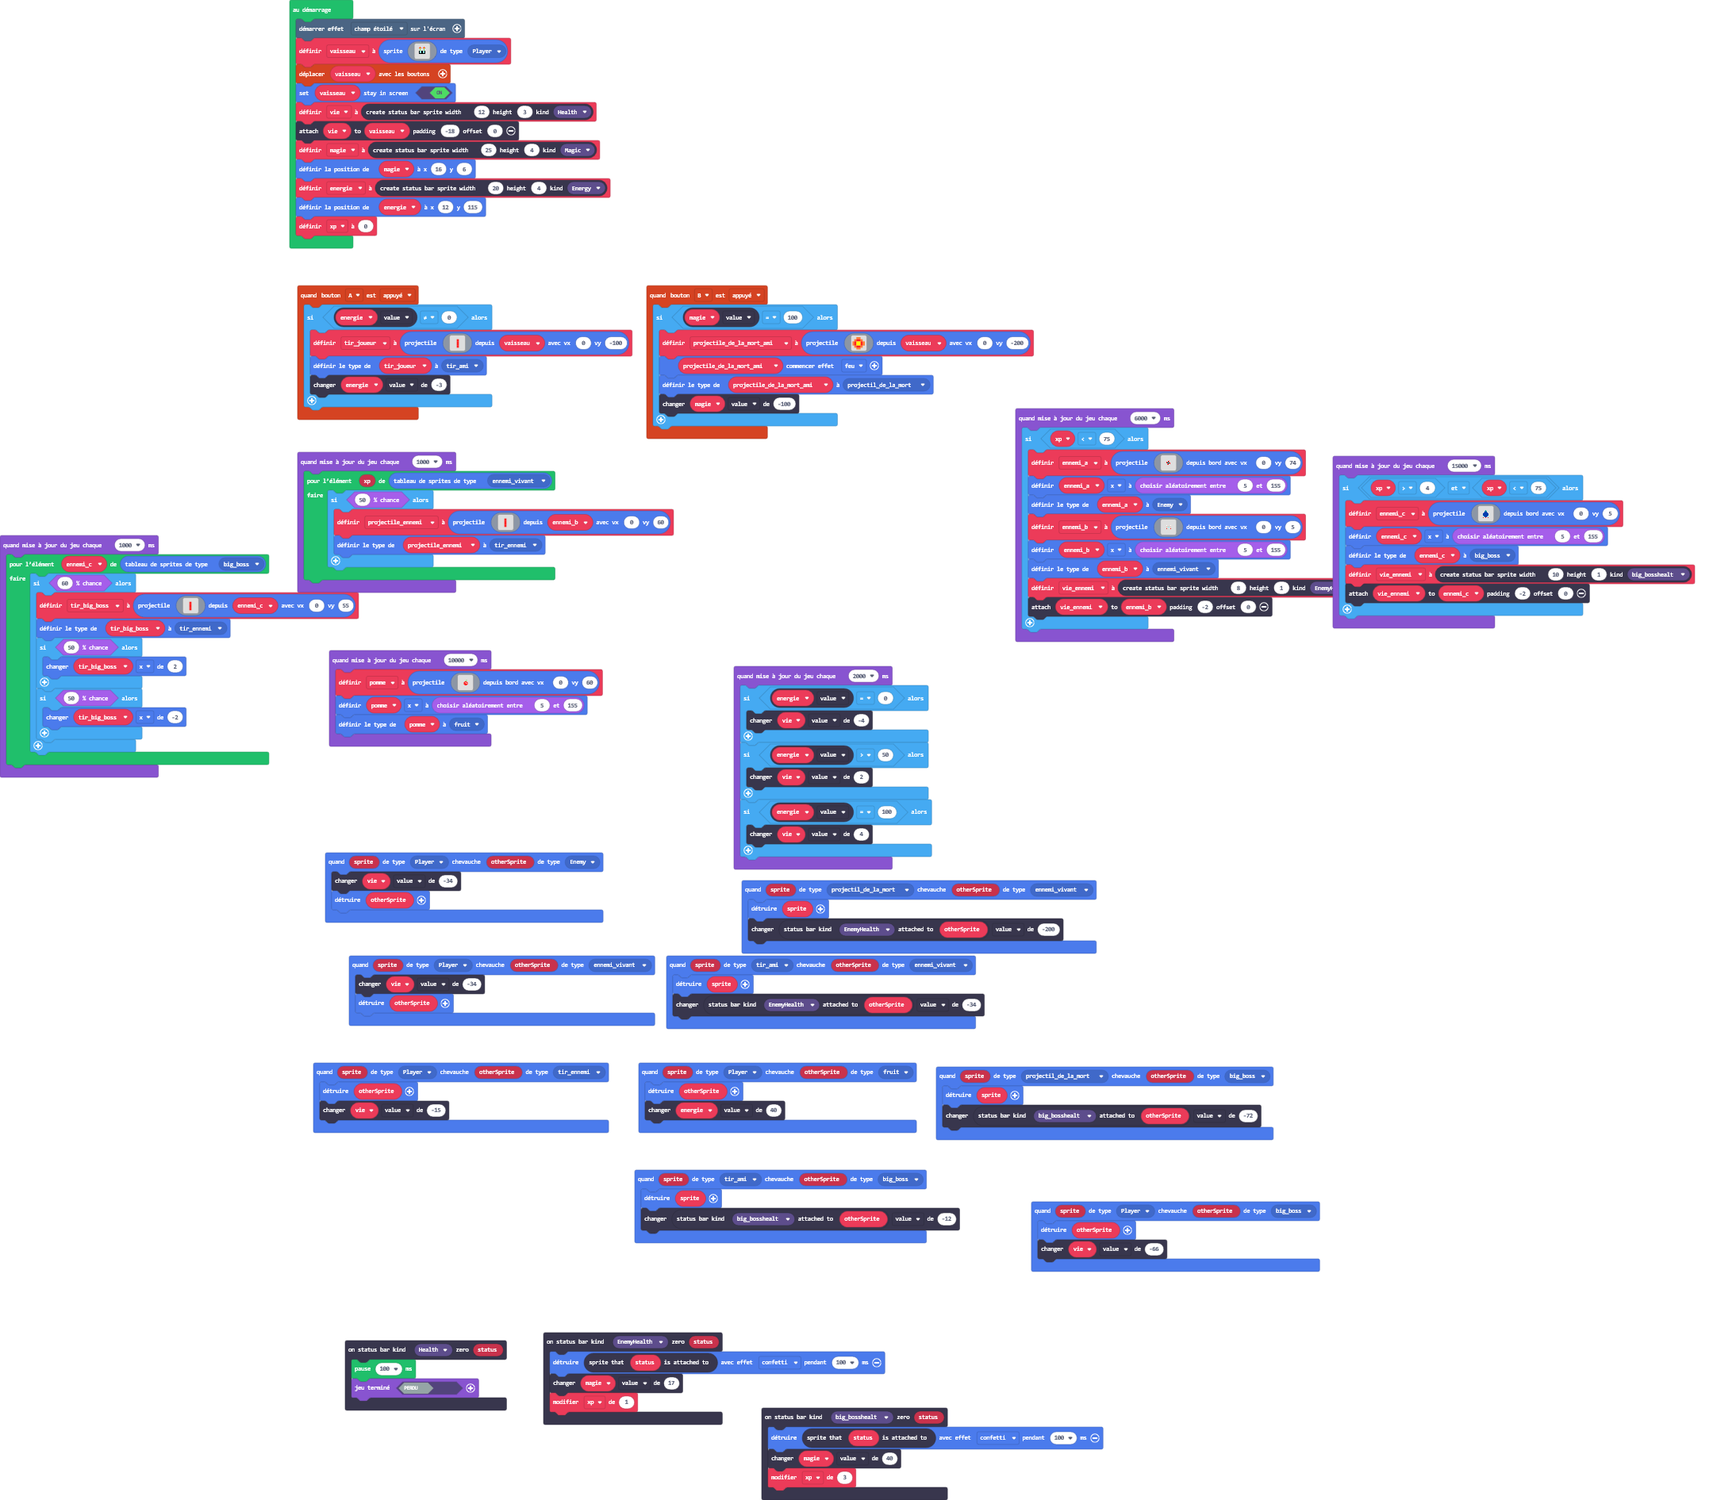
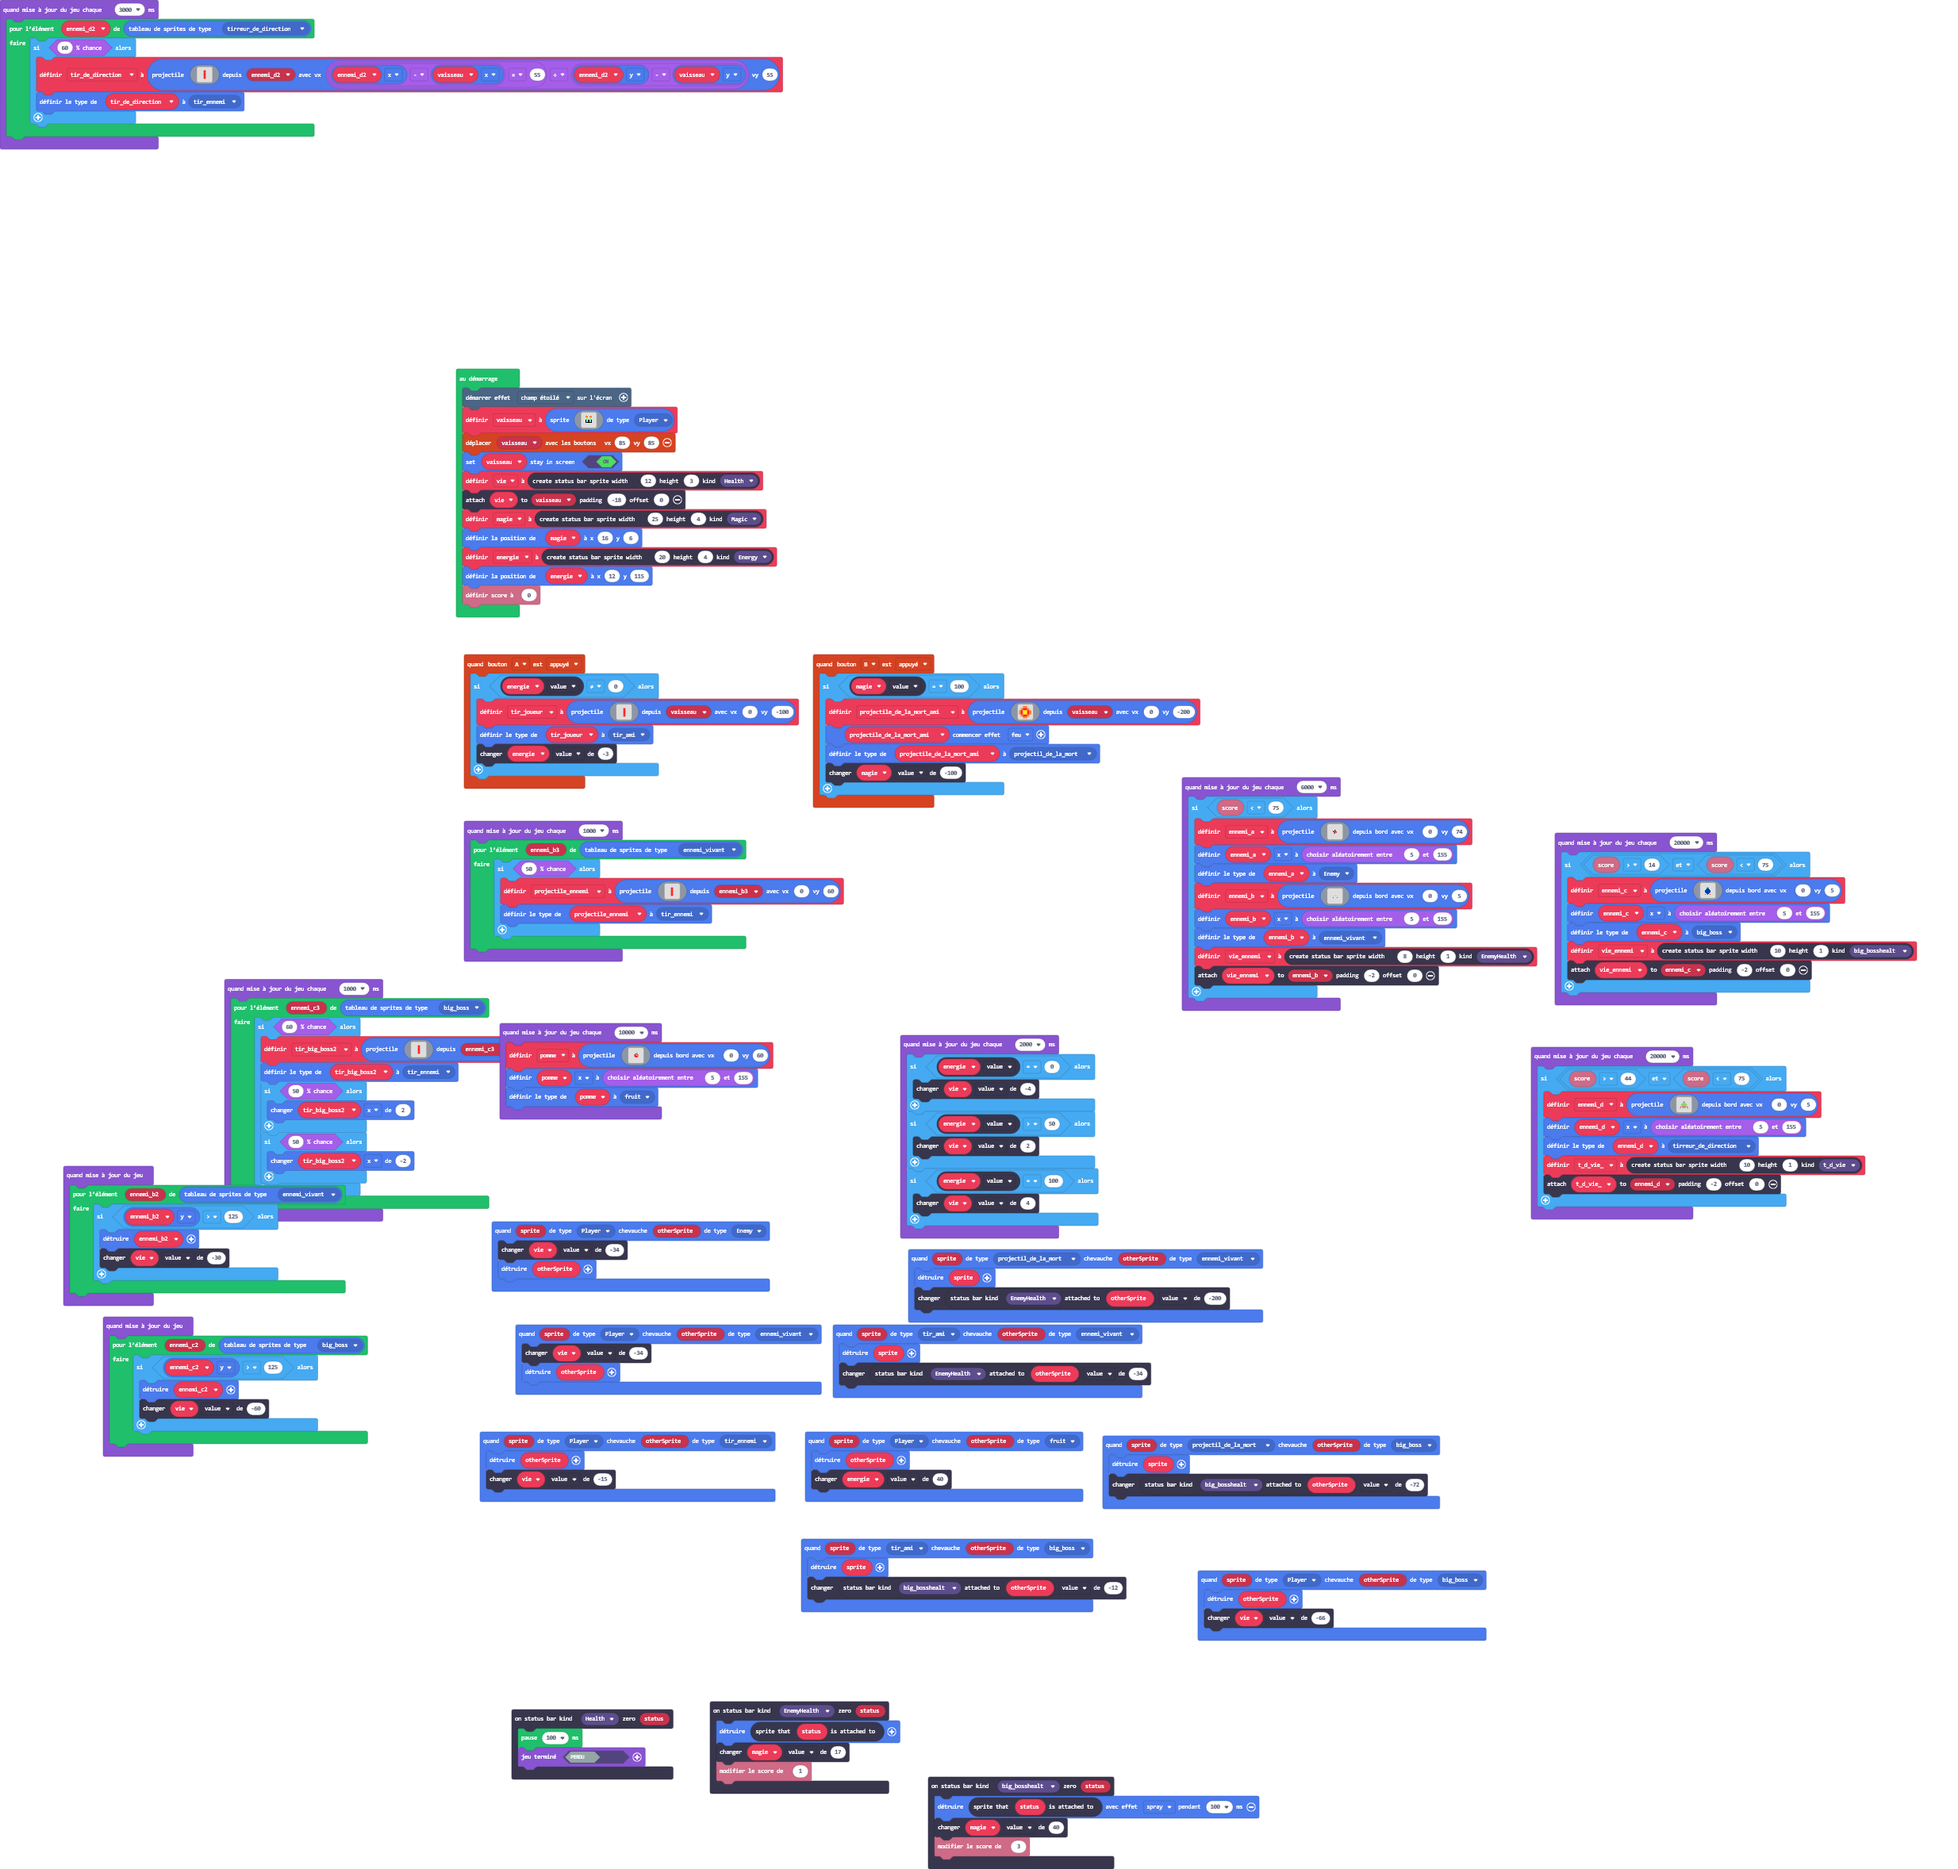
Mise à jour main.blocks, main.ts, images.g.jres, images.g.ts

diff --git a/main.ts b/main.ts
@@ -6,14 +6,16 @@ namespace SpriteKind {
     export const fruit = SpriteKind.create()
     export const big_boss = SpriteKind.create()
     export const tir_big_boss = SpriteKind.create()
+    export const tirreur_de_direction = SpriteKind.create()
 }
 namespace StatusBarKind {
     export const big_bosshealt = StatusBarKind.create()
+    export const t_d_vie = StatusBarKind.create()
 }
 statusbars.onZero(StatusBarKind.big_bosshealt, function (status) {
-    status.spriteAttachedTo().destroy(effects.confetti, 100)
+    status.spriteAttachedTo().destroy(effects.spray, 100)
     magie.value += 40
-    xp += 3
+    info.changeScoreBy(3)
 })
 sprites.onOverlap(SpriteKind.tir_ami, SpriteKind.ennemi_vivant, function (sprite, otherSprite) {
     sprite.destroy()
@@ -50,9 +52,9 @@ controller.A.onEvent(ControllerButtonEvent.Pressed, function () {
     }
 })
 statusbars.onZero(StatusBarKind.EnemyHealth, function (status) {
-    status.spriteAttachedTo().destroy(effects.confetti, 100)
+    status.spriteAttachedTo().destroy()
     magie.value += 17
-    xp += 1
+    info.changeScoreBy(1)
 })
 sprites.onOverlap(SpriteKind.projectil_de_la_mort, SpriteKind.big_boss, function (sprite, otherSprite) {
     sprite.destroy()
@@ -90,12 +92,15 @@ sprites.onOverlap(SpriteKind.Player, SpriteKind.Enemy, function (sprite, otherSp
     otherSprite.destroy()
 })
 let pomme: Sprite = null
-let ennemi_a: Sprite = null
-let tir_big_boss: Sprite = null
-let ennemi_b: Sprite = null
-let projectile_ennemi: Sprite = null
-let vie_ennemi: StatusBarSprite = null
+let t_d_vie_: StatusBarSprite = null
+let ennemi_d: Sprite = null
 let ennemi_c: Sprite = null
+let tir_de_direction: Sprite = null
+let vie_ennemi: StatusBarSprite = null
+let ennemi_b: Sprite = null
+let ennemi_a: Sprite = null
+let tir_big_boss2: Sprite = null
+let projectile_ennemi: Sprite = null
 let projectile_de_la_mort_ami: Sprite = null
 let tir_joueur: Sprite = null
 let energie: StatusBarSprite = null
@@ -121,7 +126,7 @@ vaisseau = sprites.create(img`
     . . . . . . . . . . . . . . . . 
     . . . . . . . . . . . . . . . . 
     `, SpriteKind.Player)
-controller.moveSprite(vaisseau)
+controller.moveSprite(vaisseau, 85, 85)
 vaisseau.setStayInScreen(true)
 vie = statusbars.create(12, 3, StatusBarKind.Health)
 vie.attachToSprite(vaisseau, -18, 0)
@@ -129,31 +134,21 @@ magie = statusbars.create(25, 4, StatusBarKind.Magic)
 magie.setPosition(16, 6)
 energie = statusbars.create(20, 4, StatusBarKind.Energy)
 energie.setPosition(12, 115)
-let xp = 0
-game.onUpdateInterval(15000, function () {
-    if (xp > 4 && xp < 75) {
-        ennemi_c = sprites.createProjectileFromSide(img`
-            . . . . . . . . . . . . . . . . 
-            . . . . . . . . . . . . . . . . 
-            . . . . . . . . . . . . . . . . 
-            . . . . . . . 6 . . . . . . . . 
-            . . . . . . 6 6 6 . . . . . . . 
-            . . . . . . 8 8 8 . . . . . . . 
-            . . . . . 8 8 8 8 8 . . . . . . 
-            . . . . 8 8 8 8 8 8 8 . . . . . 
-            . . . . 8 8 8 8 8 8 8 . . . . . 
-            . . . . 8 8 8 8 8 8 8 . . . . . 
-            . . . . 9 8 8 8 8 8 9 . . . . . 
-            . . . . 9 . 8 8 8 . 9 . . . . . 
-            . . . . 2 . . 2 . . 2 . . . . . 
-            . . . . . . . . . . . . . . . . 
-            . . . . . . . . . . . . . . . . 
-            . . . . . . . . . . . . . . . . 
-            `, 0, 5)
-        ennemi_c.x = randint(5, 155)
-        ennemi_c.setKind(SpriteKind.big_boss)
-        vie_ennemi = statusbars.create(10, 1, StatusBarKind.big_bosshealt)
-        vie_ennemi.attachToSprite(ennemi_c, -2, 0)
+info.setScore(0)
+game.onUpdate(function () {
+    for (let ennemi_b2 of sprites.allOfKind(SpriteKind.ennemi_vivant)) {
+        if (ennemi_b2.y > 125) {
+            ennemi_b2.destroy()
+            vie.value += -30
+        }
+    }
+})
+game.onUpdate(function () {
+    for (let ennemi_c2 of sprites.allOfKind(SpriteKind.big_boss)) {
+        if (ennemi_c2.y > 125) {
+            ennemi_c2.destroy()
+            vie.value += -60
+        }
     }
 })
 game.onUpdateInterval(2000, function () {
@@ -168,7 +163,7 @@ game.onUpdateInterval(2000, function () {
     }
 })
 game.onUpdateInterval(1000, function () {
-    for (let xp of sprites.allOfKind(SpriteKind.ennemi_vivant)) {
+    for (let ennemi_b3 of sprites.allOfKind(SpriteKind.ennemi_vivant)) {
         if (Math.percentChance(50)) {
             projectile_ennemi = sprites.createProjectileFromSprite(img`
                 . . . 
@@ -177,34 +172,34 @@ game.onUpdateInterval(1000, function () {
                 . 2 . 
                 . 2 . 
                 . . . 
-                `, ennemi_b, 0, 60)
+                `, ennemi_b3, 0, 60)
             projectile_ennemi.setKind(SpriteKind.tir_ennemi)
         }
     }
 })
 game.onUpdateInterval(1000, function () {
-    for (let ennemi_c of sprites.allOfKind(SpriteKind.big_boss)) {
+    for (let ennemi_c3 of sprites.allOfKind(SpriteKind.big_boss)) {
         if (Math.percentChance(60)) {
-            tir_big_boss = sprites.createProjectileFromSprite(img`
+            tir_big_boss2 = sprites.createProjectileFromSprite(img`
                 . . . 
                 . 2 . 
                 . 2 . 
                 . 2 . 
                 . 2 . 
                 . . . 
-                `, ennemi_c, 0, 55)
-            tir_big_boss.setKind(SpriteKind.tir_ennemi)
+                `, ennemi_c3, 0, 55)
+            tir_big_boss2.setKind(SpriteKind.tir_ennemi)
             if (Math.percentChance(50)) {
-                tir_big_boss.x += 2
+                tir_big_boss2.x += 2
             }
             if (Math.percentChance(50)) {
-                tir_big_boss.x += -2
+                tir_big_boss2.x += -2
             }
         }
     }
 })
 game.onUpdateInterval(6000, function () {
-    if (xp < 75) {
+    if (info.score() < 75) {
         ennemi_a = sprites.createProjectileFromSide(img`
             . . . . . . . . . . . . . . . . 
             . . . . . . . . . . . . . . . . 
@@ -247,6 +242,56 @@ game.onUpdateInterval(6000, function () {
         ennemi_b.setKind(SpriteKind.ennemi_vivant)
         vie_ennemi = statusbars.create(8, 1, StatusBarKind.EnemyHealth)
         vie_ennemi.attachToSprite(ennemi_b, -2, 0)
+    }
+})
+game.onUpdateInterval(3000, function () {
+    for (let ennemi_d2 of sprites.allOfKind(SpriteKind.tirreur_de_direction)) {
+        if (Math.percentChance(60)) {
+            tir_de_direction = sprites.createProjectileFromSprite(img`
+                . . . 
+                . 2 . 
+                . 2 . 
+                . 2 . 
+                . 2 . 
+                . . . 
+                `, ennemi_d2, (ennemi_d2.x - vaisseau.x) * 55 / (ennemi_d2.y - vaisseau.y), 55)
+            tir_de_direction.setKind(SpriteKind.tir_ennemi)
+        }
+    }
+})
+game.onUpdateInterval(20000, function () {
+    if (info.score() > 14 && info.score() < 75) {
+        ennemi_c = sprites.createProjectileFromSide(img`
+            . . . . . . . . . . . . . . . . 
+            . . . . . . . . . . . . . . . . 
+            . . . . . . . . . . . . . . . . 
+            . . . . . . . 6 . . . . . . . . 
+            . . . . . . 6 6 6 . . . . . . . 
+            . . . . . . 8 8 8 . . . . . . . 
+            . . . . . 8 8 8 8 8 . . . . . . 
+            . . . . 8 8 8 8 8 8 8 . . . . . 
+            . . . . 8 8 8 8 8 8 8 . . . . . 
+            . . . . 8 8 8 8 8 8 8 . . . . . 
+            . . . . 9 8 8 8 8 8 9 . . . . . 
+            . . . . 9 . 8 8 8 . 9 . . . . . 
+            . . . . 2 . . 2 . . 2 . . . . . 
+            . . . . . . . . . . . . . . . . 
+            . . . . . . . . . . . . . . . . 
+            . . . . . . . . . . . . . . . . 
+            `, 0, 5)
+        ennemi_c.x = randint(5, 155)
+        ennemi_c.setKind(SpriteKind.big_boss)
+        vie_ennemi = statusbars.create(10, 1, StatusBarKind.big_bosshealt)
+        vie_ennemi.attachToSprite(ennemi_c, -2, 0)
+    }
+})
+game.onUpdateInterval(20000, function () {
+    if (info.score() > 44 && info.score() < 75) {
+        ennemi_d = sprites.createProjectileFromSide(assets.image`a`, 0, 5)
+        ennemi_d.x = randint(5, 155)
+        ennemi_d.setKind(SpriteKind.tirreur_de_direction)
+        t_d_vie_ = statusbars.create(10, 1, StatusBarKind.t_d_vie)
+        t_d_vie_.attachToSprite(ennemi_d, -2, 0)
     }
 })
 game.onUpdateInterval(10000, function () {

diff --git a/images.g.ts b/images.g.ts
@@ -41,6 +41,23 @@ namespace myImages {
 . . . . . . . . . . . . . 
 . . . . . . . . . . . . . 
 `;
+            case "ZK8rPozy[;dQ`;O={B0K":
+            case "a":return img`
+. . . . . . . . . 
+. . . . . . . . . 
+. . . . . . . . . 
+. . . . . . . . . 
+. . . . 8 . . . . 
+. . . 7 7 7 . . . 
+. . 7 7 7 7 7 . . 
+. 7 7 7 7 7 7 7 . 
+. . 7 7 7 7 7 . . 
+. 2 . 2 . 2 . 2 . 
+2 . . 8 . 8 . . 2 
+7 . . . . . . . 7 
+. . . . . . . . . 
+. . . . . . . . . 
+`;
         }
         return null;
     })
